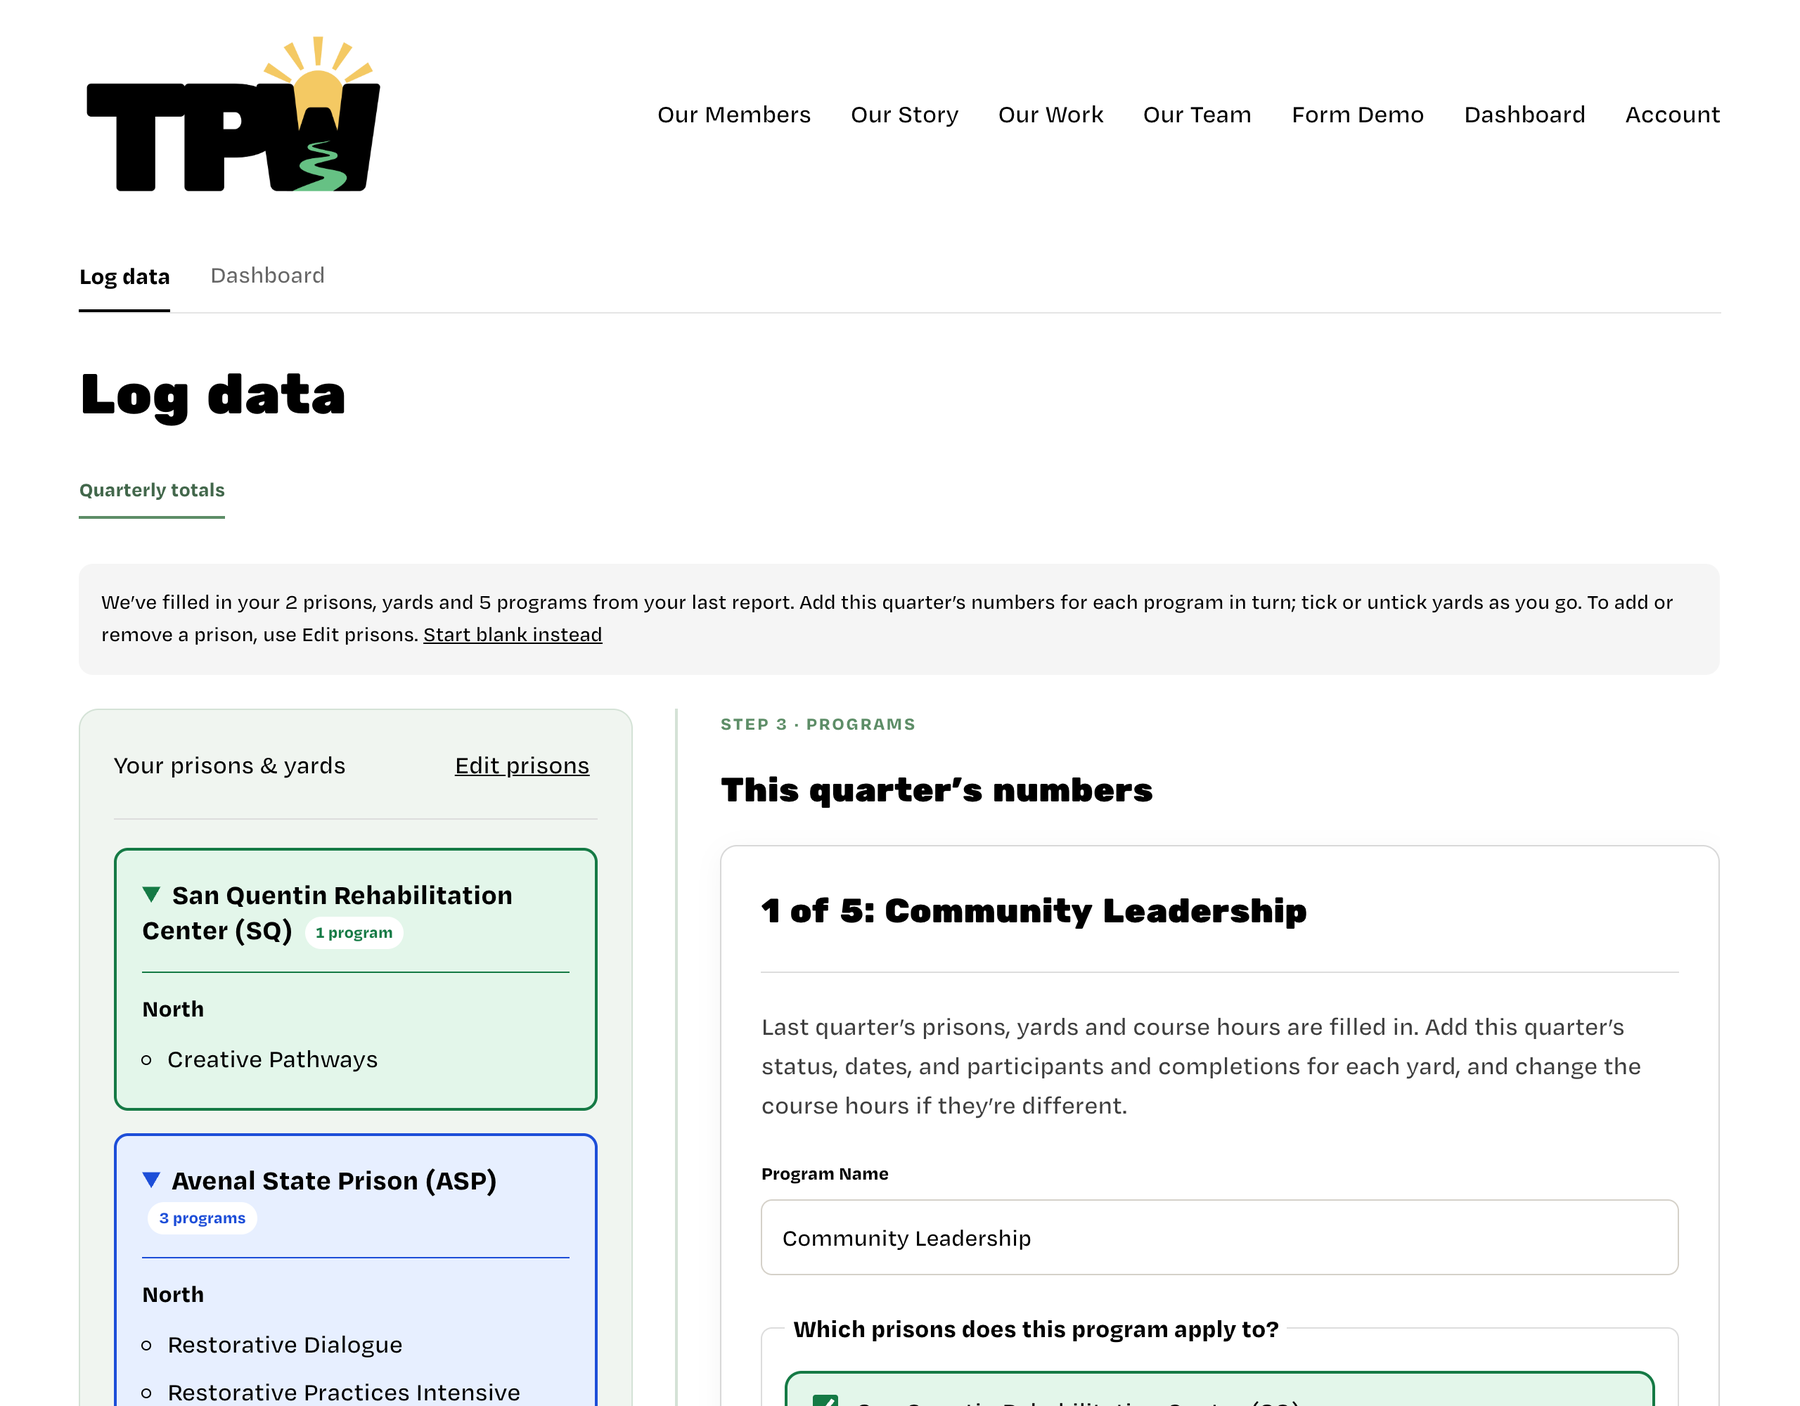
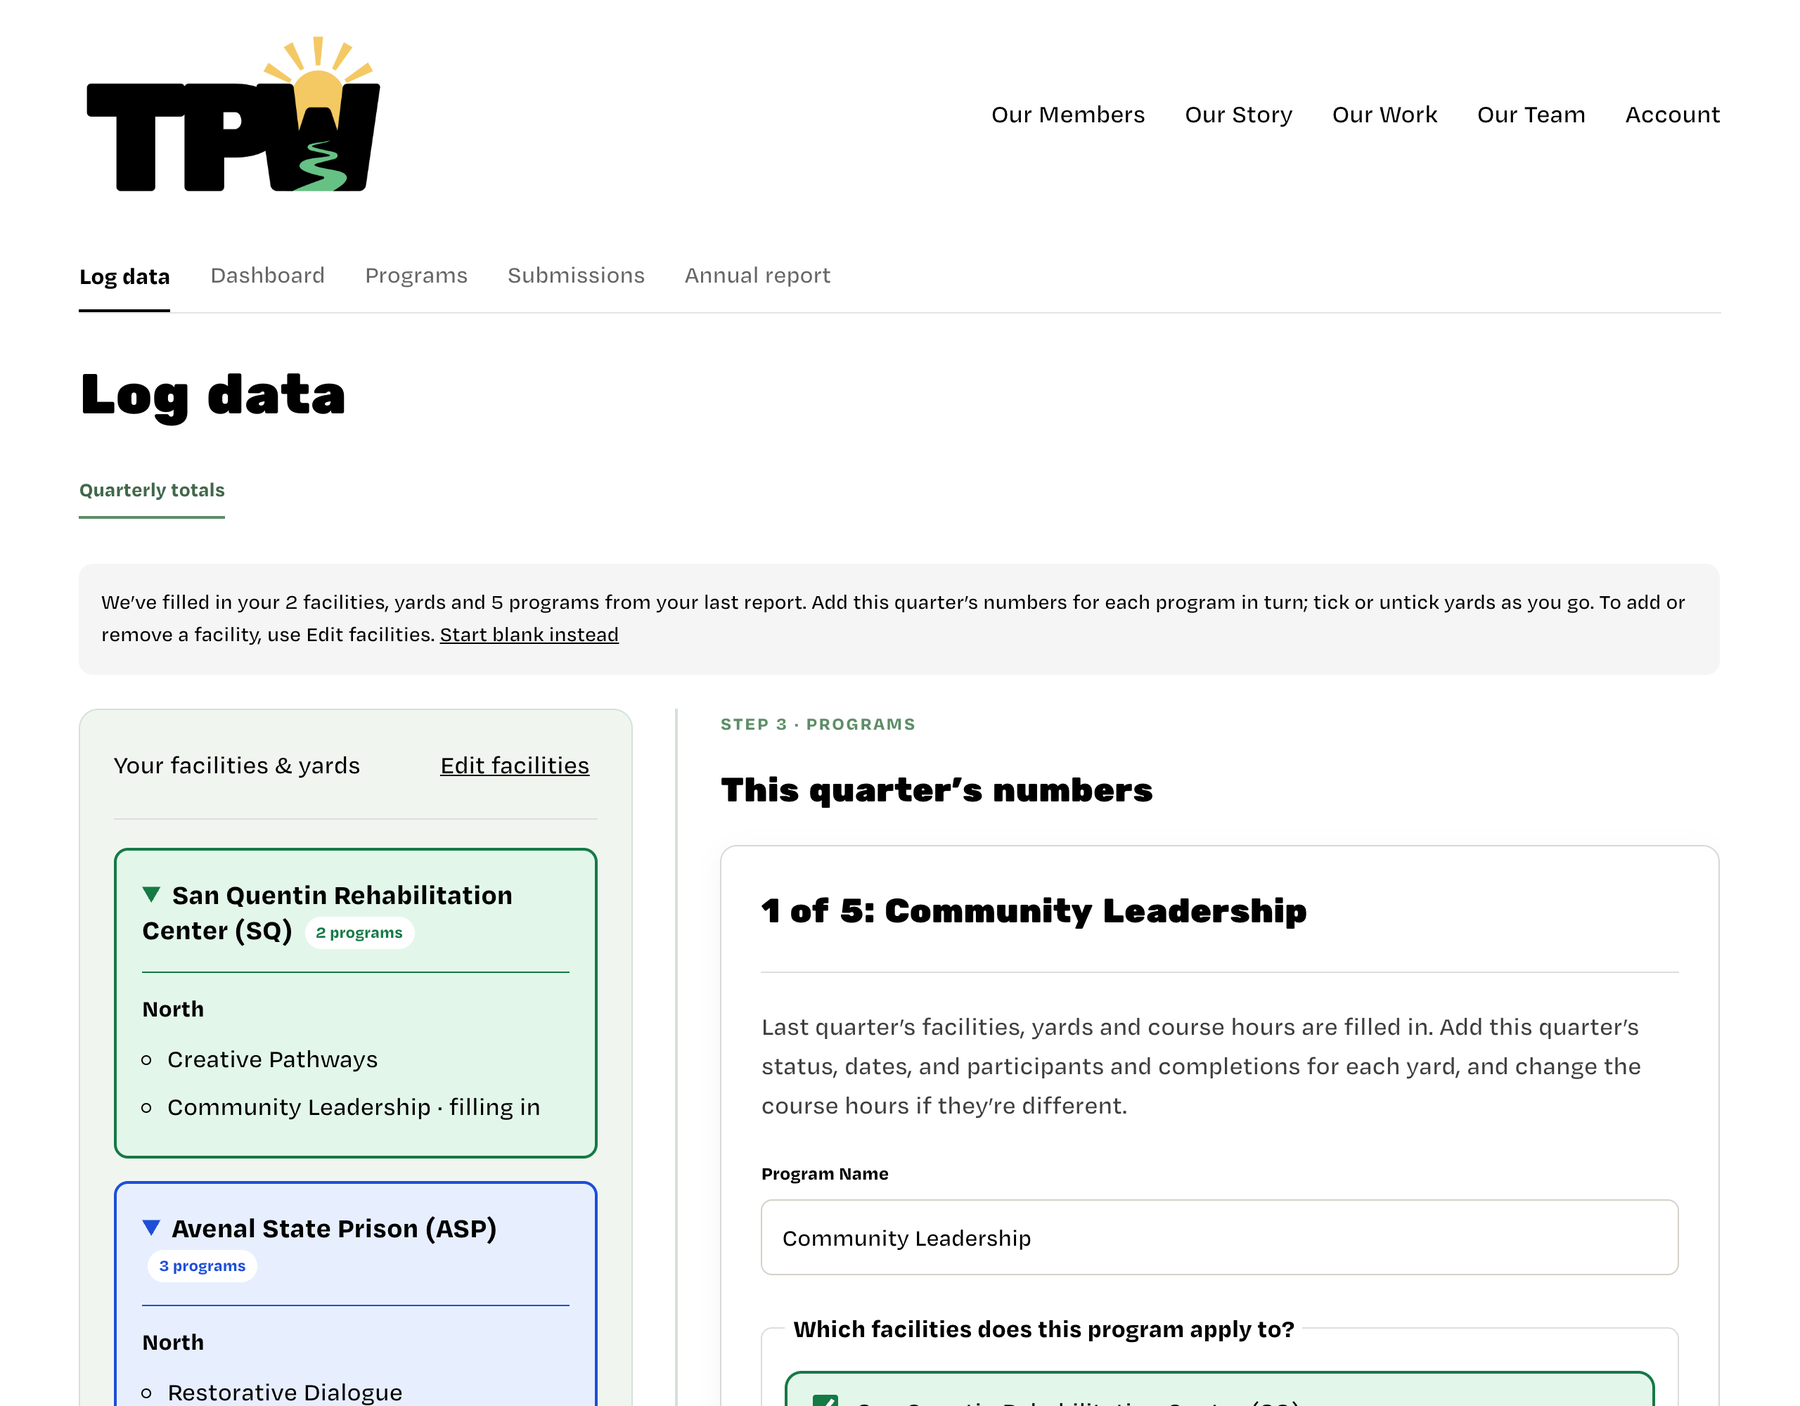
docs: retake staff guide screenshots for the current main
The form now says facilities, the member bar has Programs, Submissions and
Annual report, and the old dashboard forwards to the team one. Adds the TPW
staff view's Submissions and Organizations pages. The sheet read is stubbed,
so only the made-up sample organizations show.

diff --git a/docs/staff-guide-screenshots/README.md b/docs/staff-guide-screenshots/README.md
@@ -4,15 +4,15 @@ Screenshots of the TPW data collection tool, used in the staff guide for Ken and
 
 **Everything on screen is made up.** The form was filled in with "Sample Organization (made-up data)" and "Sample Reading Circle (made-up)". The submit button was intercepted, and so was the dashboard's read of the sheet, so nothing was sent to or read from the real Google Sheet. The reference code (56F98641) is an example copied from the demo rows in the sheet.
 
-Taken on 25 October 2026 from `main` (after the Session tab was removed, Firebase was retired and the dashboards began reading the sheet), with headless Chrome at twice the normal pixel density. The date boxes are shown in US order (mm/dd/yyyy), the way a Californian member's browser draws them.
+Taken on 25 October 2026 from `main` (after Firebase was retired, the old dashboard and form began forwarding to the team versions, and the form began saying “facilities”), with headless Chrome at twice the normal pixel density. The date boxes are shown in US order (mm/dd/yyyy), the way a Californian member's browser draws them.
 
 | File | What it shows |
 |---|---|
 | `door_signin.png` | Members Login opening a copy of TPW's own sign-in box. On the demo site you pick Org 1, Org 2 or TPW staff, and no password is checked |
-| `door_logdata.png` | The Log data page when no one is signed in: the Quarterly totals tab, step 1 of the form. Only the Log data and Dashboard links show. The Data link appears for the TPW staff view |
+| `door_logdata.png` | The Log data page when no one is signed in: the Quarterly totals tab, step 1 of the form. Only the Log data and Dashboard links show. Signed in, the bar adds Programs, Submissions and Annual report, and the TPW staff view also gets Organizations and Data |
 | `door_checkin.png` | Log data for a sample organization: the form starts from last quarter's report and asks only for this quarter's numbers |
 | `form_org.png` | Step 1: the organization's name |
-| `form_prisons.png` | Step 2: choosing a prison and its yards, including the Yard not listed? box for adding one |
+| `form_prisons.png` | Step 2: choosing a facility (a prison) and its yards, including the Yard not listed? box for adding one |
 | `form_prog_a.png` | Step 3: program name, prisons and yards |
 | `form_prog_b.png` | Step 3: status, start and end dates, course hours |
 | `form_prog_c.png` | Step 3: participants started and completed at each yard, notes |
@@ -20,7 +20,9 @@ Taken on 25 October 2026 from `main` (after the Session tab was removed, Firebas
 | `form_receipt.png` | The receipt after a successful submission |
 | `form_error_numbers.png` | The message when completed is higher than started |
 | `form_error_connection.png` | The message when the connection drops on submit, with the membership@thetpw.org address to email |
-| `dashboard.png` | The Dashboard page. It reads TPW's Google Sheet plus the made-up sample organizations. For the picture the sheet read was stubbed out, so only the sample organizations show |
+| `dashboard.png` | The Dashboard page in the TPW staff view. It reads TPW's Google Sheet plus the made-up sample organizations. For the picture the sheet read was stubbed out, so only the sample organizations show |
+| `staff_submissions.png` | The Submissions page in the TPW staff view: who has and hasn't submitted for each of the last two quarters (sample organizations only) |
+| `staff_organizations.png` | The Organizations page in the TPW staff view: one card per organization (sample organizations only) |
 | `datapage.png` | The Data page as someone with access sees it: the Google Sheet shown inside the website. Taken while the workbook was still open to anyone with its link; it is private now, so someone signed out sees a Google sign-in prompt instead |
 | `sheet_strip_a.png`, `sheet_strip_b.png`, `sheet_strip_c.png` | The main tab's columns A to G, H to M and N to R, first rows. Taken before the sheet gained its Test data column at the far right, and not retaken because the workbook is private now |
 | `sheet_tabs.png` | The tabs along the bottom of the workbook |
